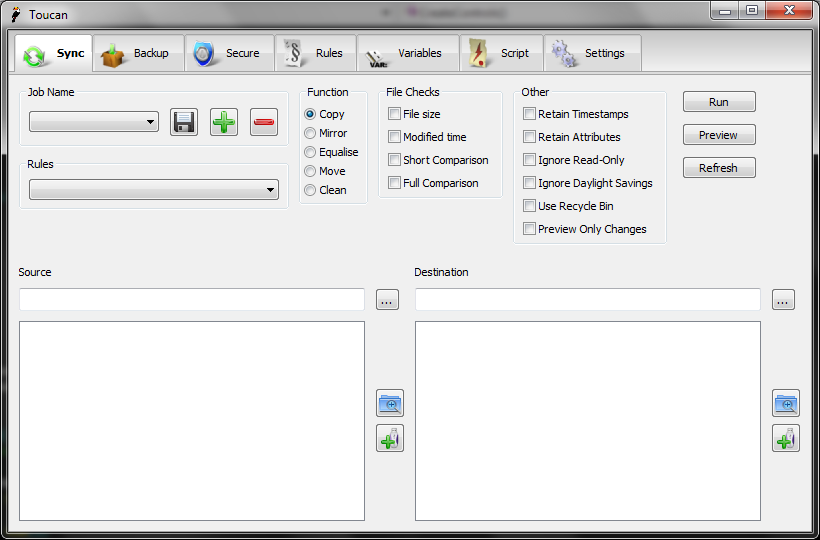
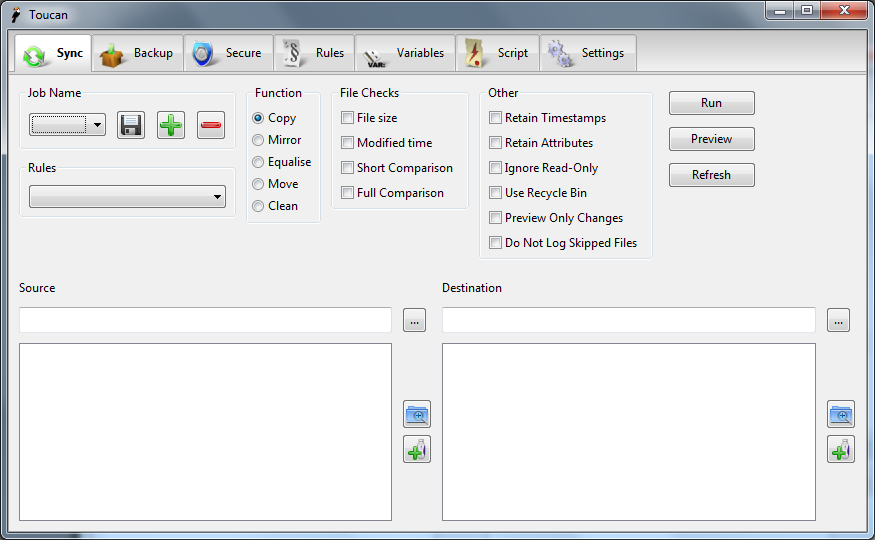
sync: add option for not logging "Skipped" messages
Closes #15.

Changed region(s): [[0.0, 0.0, 1.0, 1.0]]

diff --git a/forms/frmmain.cpp b/forms/frmmain.cpp
@@ -194,6 +194,7 @@ void frmMain::Init(){
 	m_Sync_Ignore_Readonly = NULL;
 	m_Sync_Recycle = NULL;
 	m_SyncPreviewChanges = NULL;
+	m_SyncNoSkipped = NULL;
 	BackupTopSizer = NULL;
 	m_Backup_Job_Select = NULL;
 	m_Backup_Rules = NULL;
@@ -342,6 +343,10 @@ void frmMain::CreateControls(){
 	m_SyncPreviewChanges = new wxCheckBox(SyncPanel, ID_SYNC_PREVIEW_CHANGES, _("Preview Only Changes"));
 	m_SyncPreviewChanges->SetValue(false);
 	SyncOtherSizer->Add(m_SyncPreviewChanges, 0, wxALIGN_LEFT|wxALL, border);
+
+	m_SyncNoSkipped = new wxCheckBox(SyncPanel, ID_SYNC_NO_SKIPPED, _("Do Not Log Skipped Files"));
+	m_SyncNoSkipped->SetValue(false);
+	SyncOtherSizer->Add(m_SyncNoSkipped, 0, wxALIGN_LEFT|wxALL, border);
 
 	wxBoxSizer* SyncButtonsSizer = new wxBoxSizer(wxVERTICAL);
 	SyncTopSizer->Add(SyncButtonsSizer, 1, wxGROW|wxALL|wxALIGN_CENTER_VERTICAL, border);	
@@ -1388,7 +1393,8 @@ void frmMain::OnSyncRunClick(wxCommandEvent& WXUNUSED(event)){
 	command << "{timestamps=" << ToString(m_Sync_Timestamp->IsChecked()) << ","
 			<< "attributes=" << ToString(m_Sync_Attributes->IsChecked()) << ","
 			<< "recycle=" << ToString(m_Sync_Recycle->IsChecked()) << ","
-			<< "ignorero=" << ToString(m_Sync_Ignore_Readonly->IsChecked()) << "}, ";
+			<< "ignorero=" << ToString(m_Sync_Ignore_Readonly->IsChecked())
+			<< "noskipped=" << ToString(m_SyncNoSkipped->IsChecked()) << "}, ";
 	//rules
 	command << "[[" << m_Sync_Rules->GetStringSelection() << "]])";
 	wxGetApp().m_LuaManager->Run(command);
@@ -2047,6 +2053,7 @@ void frmMain::ClearToDefault(){
 		m_Sync_Ignore_Readonly->SetValue(false);
 		m_Sync_Recycle->SetValue(false);
 		m_SyncPreviewChanges->SetValue(false);
+		m_SyncNoSkipped->SetValue(false);
 		m_SyncCheckFull->SetValue(false);
 		m_SyncCheckShort->SetValue(false);
 		m_SyncCheckSize->SetValue(false);
@@ -2414,7 +2421,7 @@ void frmMain::OnScriptCommandTypeChange(wxCommandEvent& WXUNUSED(event)){
         items.push_back("backup([[jobname]])");
         items.push_back("secure([[jobname]])");
         items.push_back("sync([[source]], [[dest]], [[function]], {size = true, time = false, short = true, full = false}, "
-                        "{timestamps = true, attributes = true, ignorero = false, ignoredls = false, recycle = false, previewchanges = false}, "
+                        "{timestamps = true, attributes = true, ignorero = false, ignoredls = false, recycle = false, previewchanges = false, noskipped = false}, "
                         "[[rules]])");
         items.push_back("backup({[[path1]], [[path2]]}, [[location]], [[function]], [[format]], ratio, "
                         "{password = false, test = false, solid = true}, [[rules]])");

diff --git a/data/syncdata.cpp b/data/syncdata.cpp
@@ -34,6 +34,7 @@ void SyncData::TransferFromFile(){
 	SetIgnoreRO(Read<bool>("IgnoreReadOnly"));
 	SetRecycle(Read<bool>("Recycle"));
 	SetPreviewChanges(Read<bool>("PreviewChanges"));
+	SetNoSkipped(Read<bool>("NoSkipped"));
 
     RuleSet *rules = new RuleSet(Read<wxString>("Rules"));
     rules->TransferFromFile();
@@ -56,6 +57,7 @@ void SyncData::TransferToFile(){
 	Write<bool>("IgnoreReadOnly", GetIgnoreRO());
 	Write<bool>("Recycle", GetRecycle());
 	Write<bool>("PreviewChanges", GetPreviewChanges());
+	Write<bool>("NoSkipped", GetNoSkipped());
 	Write<wxString>("Rules", GetRules() ? GetRules()->GetName() : "");
 	Write<wxString>("Type", "Sync");
 
@@ -91,6 +93,7 @@ bool SyncData::TransferToForm(frmMain *window){
 	window->m_Sync_Ignore_Readonly->SetValue(GetIgnoreRO());
 	window->m_Sync_Recycle->SetValue(GetRecycle());
 	window->m_SyncPreviewChanges->SetValue(GetPreviewChanges());
+	window->m_SyncNoSkipped->SetValue(GetNoSkipped());
 	window->m_Sync_Rules->SetStringSelection(GetRules()->GetName());
 	return true;
 }
@@ -111,6 +114,7 @@ bool SyncData::TransferFromForm(frmMain *window){
 	SetIgnoreRO(window->m_Sync_Ignore_Readonly->GetValue());
 	SetRecycle(window->m_Sync_Recycle->GetValue());
 	SetPreviewChanges(window->m_SyncPreviewChanges->GetValue());
+	SetNoSkipped(window->m_SyncNoSkipped->GetValue());
 
     RuleSet *rules = new RuleSet(window->m_Sync_Rules->GetStringSelection());
     rules->TransferFromFile();

diff --git a/basicfunctions.cpp b/basicfunctions.cpp
@@ -219,10 +219,13 @@ wxArrayString GetScripts(){
 
 bool UpdateJobs(){
 	long version;
+	//Update this when updating Job format version
+	const long cur_version = 302;
+
 	wxFileConfig *config = wxGetApp().m_Jobs_Config;
 	if(!wxFileExists(wxGetApp().GetSettingsPath() + wxT("Jobs.ini"))){
 		if(!wxGetApp().IsReadOnly()){
-			config->Write(wxT("General/Version"), 301);
+			config->Write(wxT("General/Version"), cur_version);
 			config->Flush();
 			return true;
 		}
@@ -232,7 +235,7 @@ bool UpdateJobs(){
 	}
 	config->Read(wxT("General/Version"), &version, 1);
 	//Return if we are up to date
-	if(version == 301){
+	if(version == cur_version){
 		return true;
 	}
 	if(wxGetApp().IsReadOnly()){
@@ -364,7 +367,21 @@ bool UpdateJobs(){
 		}
         version = 301;
 	}
-	config->Write(wxT("General/Version"), 301);
+	if(version == 301){
+		wxString value;
+		long dummy;
+		bool exists = config->GetFirstGroup(value, dummy);
+		while(exists){
+			if(config->Read(value + wxT("/Type")) == wxT("Sync")){
+				if(!config->Read("NoSkipped")){
+					config->Write(value + wxT("/NoSkipped"), false);
+				}
+			}
+			exists = config->GetNextGroup(value, dummy);
+		}
+		version = 302;
+	}
+	config->Write(wxT("General/Version"), cur_version);
 	config->Flush();
 	return true;
 }

diff --git a/data/syncdata.h b/data/syncdata.h
@@ -28,9 +28,10 @@ struct SyncOptions{
 	bool IgnoreRO;
 	bool Recycle;
 	bool PreviewChanges;
+	bool NoSkipped;
 
 	SyncOptions() : TimeStamps(true), Attributes(true), IgnoreRO(false), 
-					Recycle(false), PreviewChanges(false)
+					Recycle(false), PreviewChanges(false), NoSkipped(false)
 	{}
 };
 
@@ -58,6 +59,7 @@ public:
 	void SetAttributes(const bool& Attributes) {this->m_Options.Attributes = Attributes;}
 	void SetRecycle(const bool& Recycle) {this->m_Options.Recycle = Recycle;}
 	void SetPreviewChanges(const bool& Changes) {this->m_Options.PreviewChanges = Changes;}
+	void SetNoSkipped(const bool& NoSkipped) {this->m_Options.NoSkipped = NoSkipped;}
 
 	const wxFileName& GetSource() const {return source;}
 	const wxFileName& GetDest() const {return dest;}
@@ -71,6 +73,7 @@ public:
 	const bool& GetAttributes() const {return m_Options.Attributes;}
 	const bool& GetRecycle() const {return m_Options.Recycle;}
 	const bool& GetPreviewChanges() const {return m_Options.PreviewChanges;}
+	const bool& GetNoSkipped() const {return m_Options.NoSkipped;}
 
 private:
 	wxFileName source;

diff --git a/sync/syncjob.cpp b/sync/syncjob.cpp
@@ -231,7 +231,9 @@ bool SyncFiles::CopyIfNeeded(const wxFileName &source, const wxFileName &dest){
     &&  !data->GetCheckShort() && !data->GetCheckFull())){
 		return CopyFile(source, dest);
 	}
-    OutputProgress(_("Skipped ") + source.GetFullPath(), Message);
+    if(!data->GetNoSkipped()) {
+        OutputProgress(_("Skipped ") + source.GetFullPath(), Message);
+    }
 	return false;
 }
 

diff --git a/forms/frmmain.h b/forms/frmmain.h
@@ -73,6 +73,7 @@ enum{
 	ID_SYNC_IGNORERO,
 	ID_SYNC_RECYCLE,
 	ID_SYNC_PREVIEW_CHANGES,
+	ID_SYNC_NO_SKIPPED,
 	//Backup
 	ID_PANEL_BACKUP,
 	ID_BACKUP_RUN,
@@ -339,6 +340,7 @@ public:
 	wxCheckBox* m_Sync_Ignore_Readonly;
 	wxCheckBox* m_Sync_Recycle;
 	wxCheckBox* m_SyncPreviewChanges;
+	wxCheckBox* m_SyncNoSkipped;
 	
 	//Backup
 	wxBoxSizer* BackupTopSizer;
